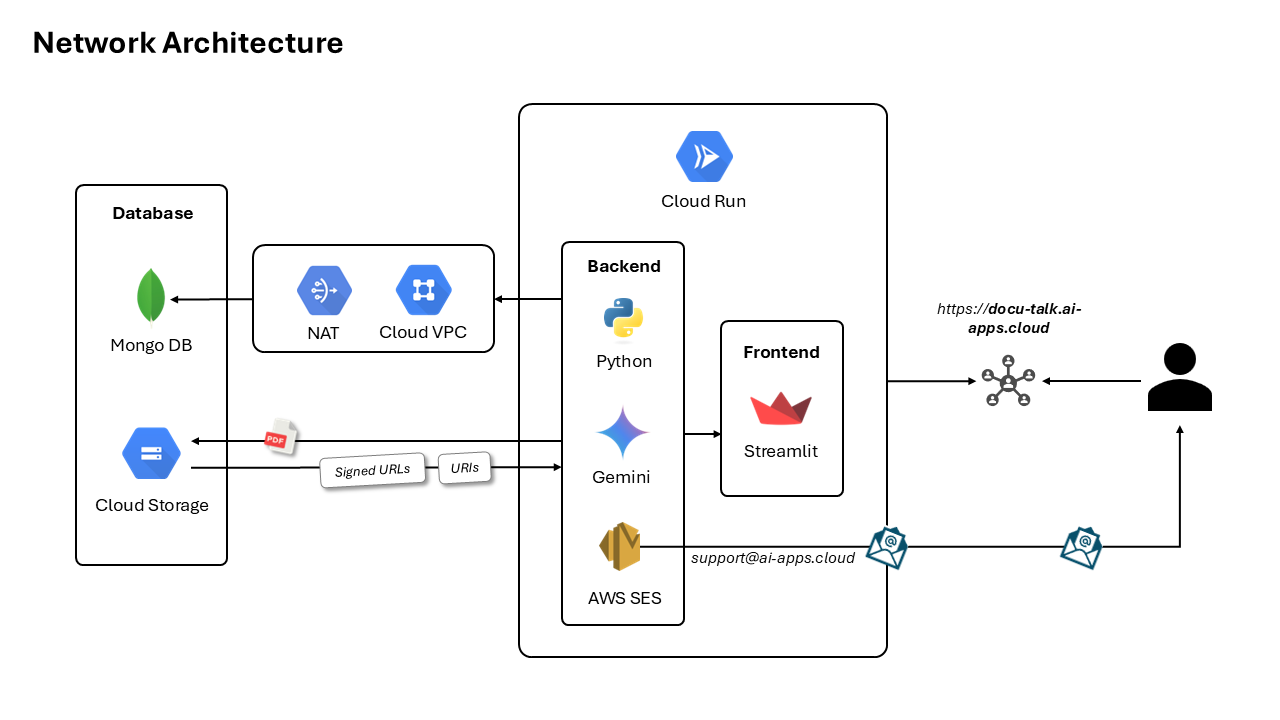
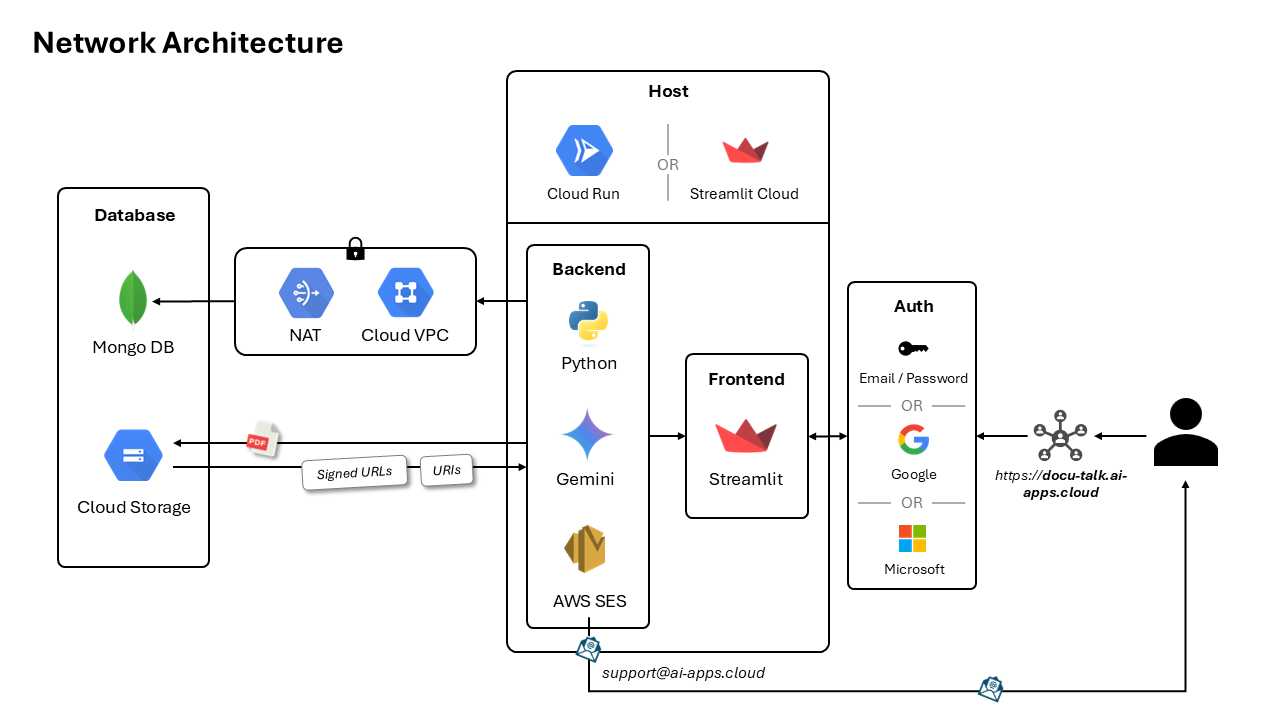
docs(auth) : add authentication documentation

diff --git a/README.md b/README.md
@@ -49,7 +49,14 @@ The front-end is built using the **Streamlit** framework.
 
 ### Hosting
 
-The application is hosted on Cloud Run and mapped to the domain **docu-talk.ai-apps.cloud**.
+The application is hosted on Cloud Run or Streamlit Cloud and mapped to the domain **docu-talk.ai-apps.cloud**.
+
+### Authentication
+
+3 authentication methods are available in the application:
+* **Email / Password authentication**
+* **Google OAuth 2.0 authentication**
+* **Microsoft OAuth 2.0 Authentication**
 
 ## MongoDB Database
 
